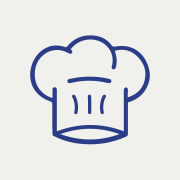
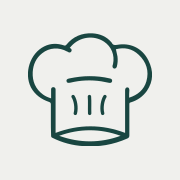
Icône d'onglet : fichier d'origine, couleurs d'origine

diff --git a/README.md b/README.md
@@ -217,7 +217,7 @@ Canva ─PDF─▶ /admin (navigateur)
 - **Images** : servies directement par Supabase (`<img>`), sans passer par l'optimiseur d'images de Vercel, ce qui évite ses quotas.
 - **PDF téléchargeable** : assemblé dans le navigateur de l'admin à partir des rendus des pages (JPEG, qualité ajustée page par page pour rester sous la limite de 50 Mo), format de page d'origine, affichage en doubles pages (`/PageLayout /TwoPageRight`).
 - **Désactivation** : colonne `is_active` ; un lien désactivé affiche une page sobre « Ce catalogue n'est plus en ligne ».
-- **Identité visuelle** : logo dans `public/brand/`, icône d'onglet (chapeau) dans `src/app/icon.svg` avec variante claire pour les navigateurs en thème sombre, `favicon.ico` et `apple-icon.png` pour les anciens clients et l'écran d'accueil iPhone.
+- **Identité visuelle** : logo dans `public/brand/`, icône d'onglet (chapeau, fichier d'origine) dans `src/app/icon.svg`, `favicon.ico` et `apple-icon.png` pour les anciens clients et l'écran d'accueil iPhone.
 - **Catalogue de démonstration** : `/c/demo` est servi depuis `public/demo/` (fichiers générés par `node scripts/generate-demo.mjs`). Visible tant que Supabase n'est pas configuré, puis masqué automatiquement (sauf `ENABLE_DEMO=true`).
 - **En-têtes HTTP** : pas d'en-tête `X-Powered-By`, `nosniff` partout, et l'administration refuse d'être affichée dans une iframe.
 - **Administration** : `/admin` est protégé par un cookie de session signé (HMAC, `httpOnly`, 30 jours). Le middleware bloque `/admin` sans session, et chaque action serveur (création, modification, suppression) revérifie la session. Les fichiers partent du navigateur directement vers Supabase via des URLs d'upload signées, valables uniquement pour le catalogue en cours.
